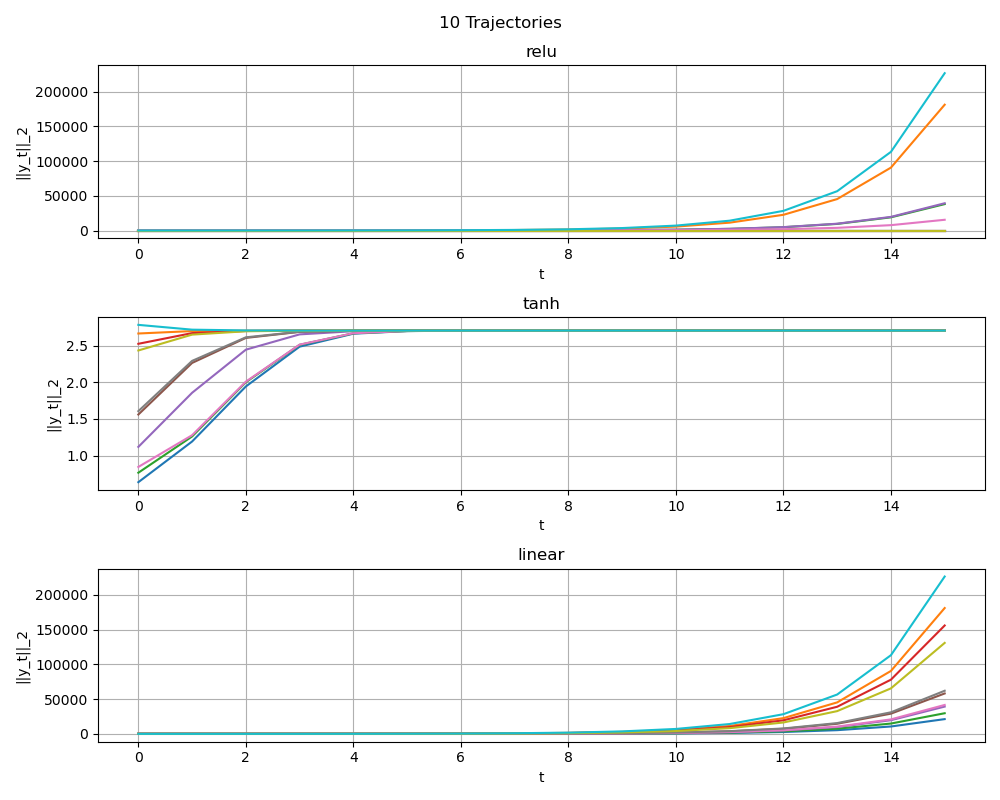
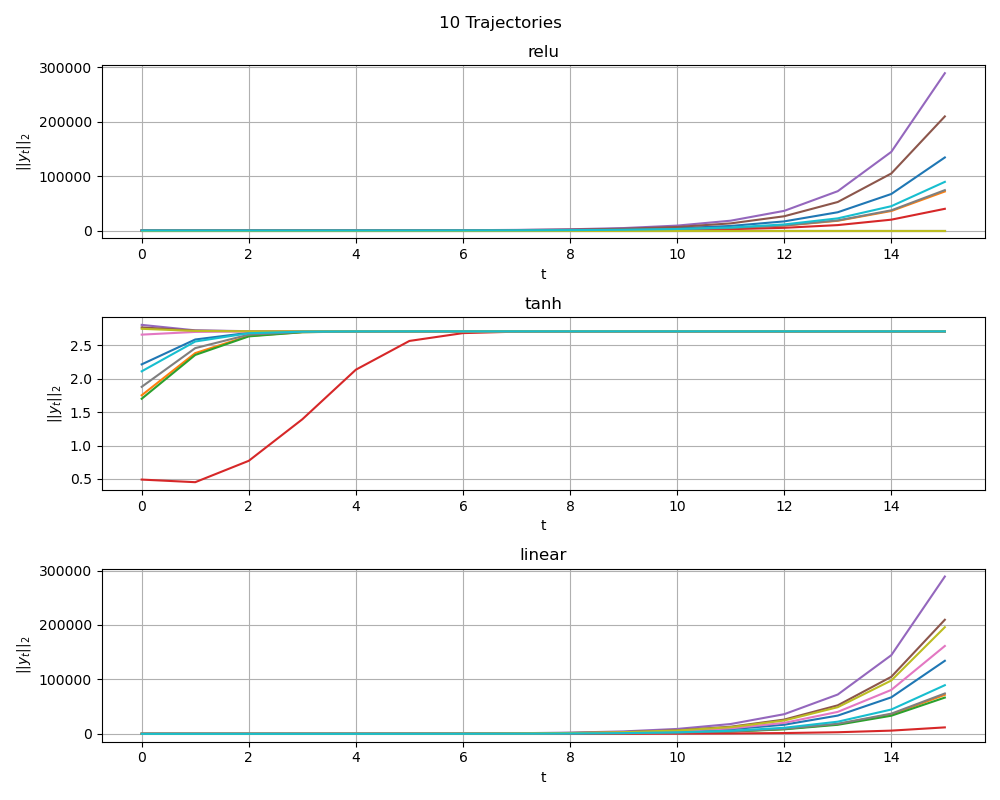
d1 done

diff --git a/deliverable1.py b/deliverable1.py
@@ -54,7 +54,9 @@ if __name__ == "__main__":
     def l2_norm(x):
         return np.sqrt(x[:,0]**2+x[:,1]**2)
     
+    ## Normal distribution 
     normal = Normal(torch.Tensor([0.0]), torch.Tensor([1.0])) # standard normal distribution
+    ## Sampling 
     # since we dont need to track back propagate, simply random sampling w/ sample
     # for tracking backpropagation, use rsample instead
     vectors = normal.sample((10,2)).squeeze(-1)
@@ -84,7 +86,7 @@ if __name__ == "__main__":
         plt.subplot(len(logs), 1,i+1)
         plt.plot(all_y)
         plt.xlabel("t")
-        plt.ylabel("||y_t||_2")
+        plt.ylabel("$||y_t||_2$")
         plt.title(mode)
         plt.grid(True)
     
@@ -116,7 +118,7 @@ if __name__ == "__main__":
         plt.plot(all_y[0], label="[1,1]")
         plt.plot(all_y[1], label="[1,-1]")
         plt.xlabel("t")
-        plt.ylabel("||y_t||_2")
+        plt.ylabel("$||y_t||_2$")
         plt.title(mode)
         plt.legend(loc = "upper left")
         plt.grid(True)
